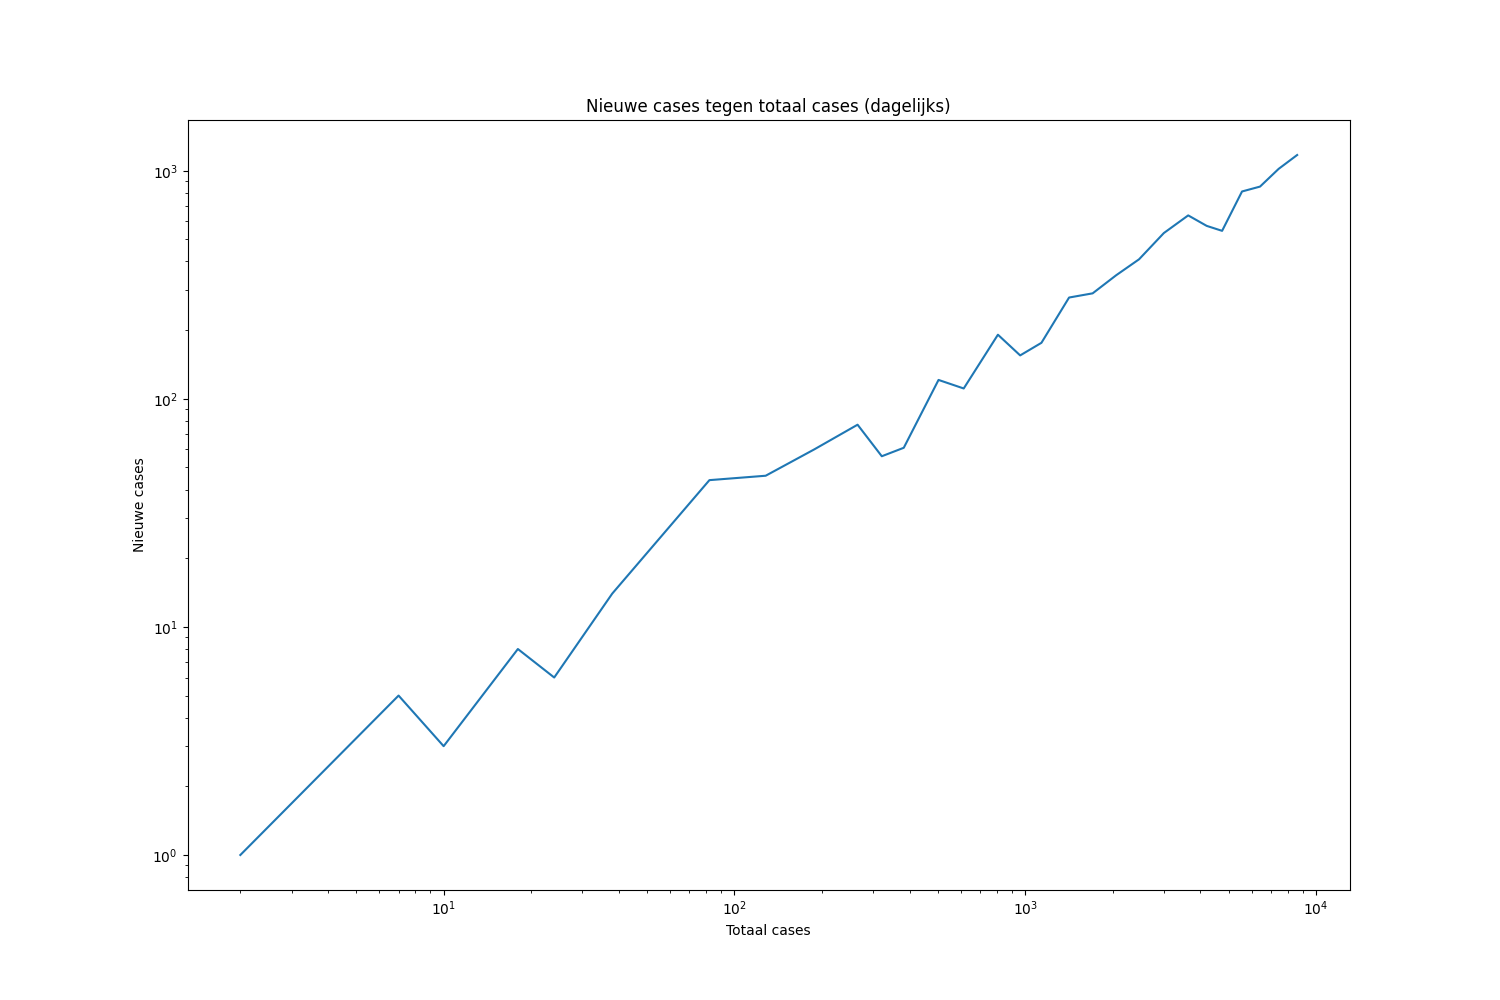
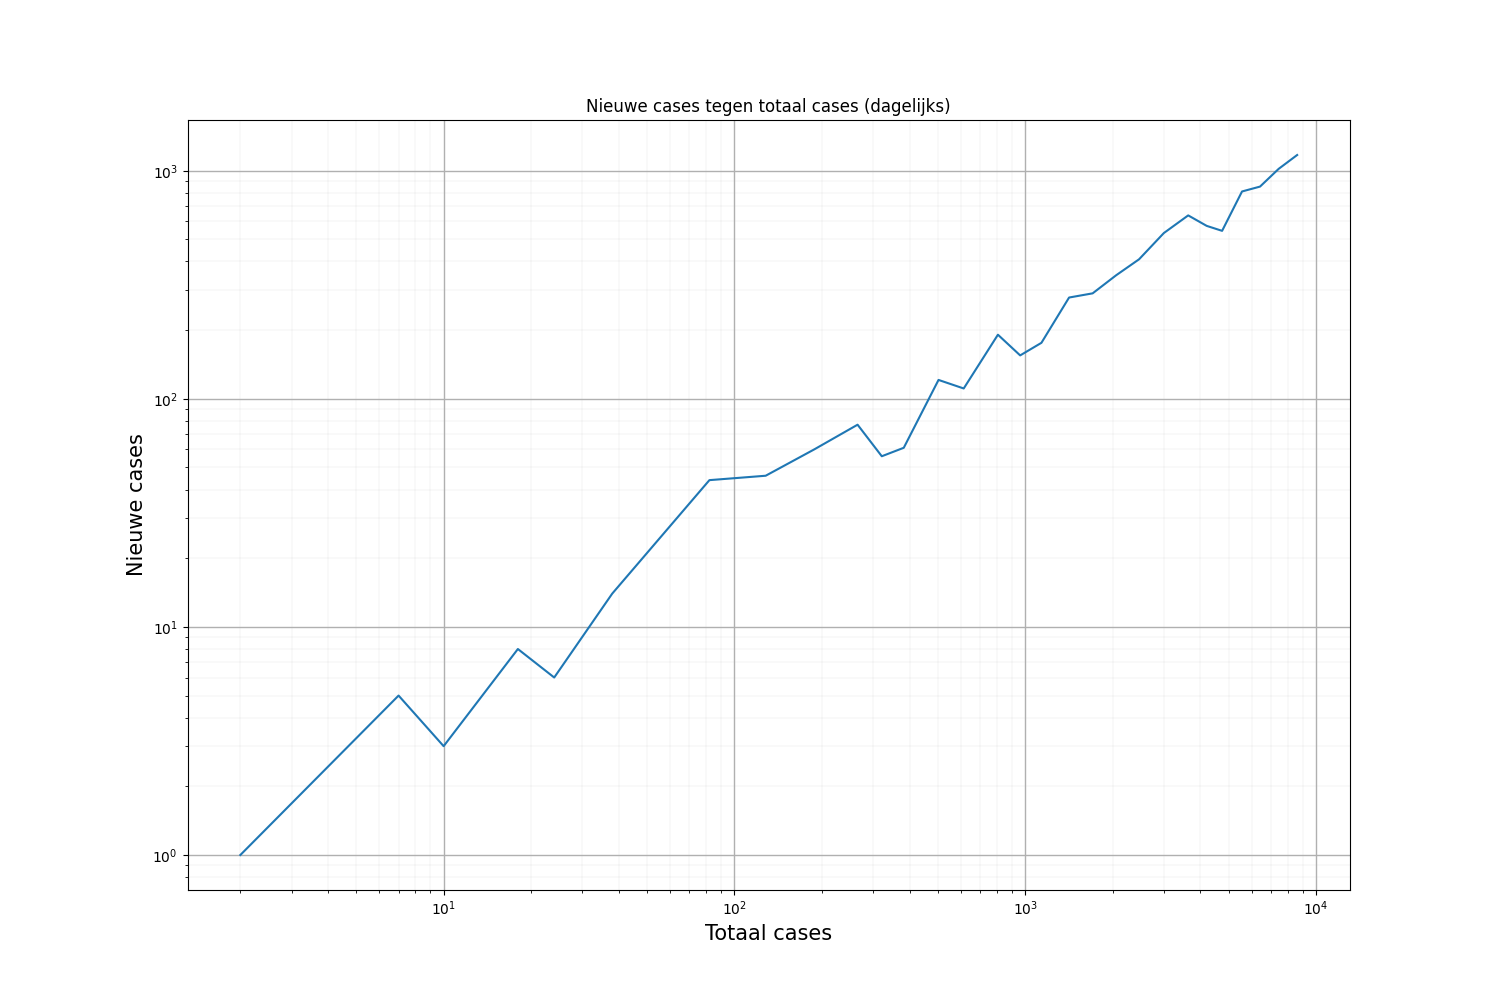
Add grid and increase labelsize

Changed region(s): [[0.4907, 0.93, 0.552, 0.961]]

diff --git a/plot_scripts/python_plots.py b/plot_scripts/python_plots.py
@@ -131,8 +131,14 @@ def create_growthfactor_plot(df, intercepts, coefficients, inflection_date, plot
 
 # %%
 def create_logarithmic_growth_plot(df):
+    # Setup Object Oriented plot because we re-use this function
     fig, ax = plt.subplots(figsize=(15,10))
-    ax.set(xlabel="Totaal cases", ylabel="Nieuwe cases", xscale="log", yscale="log")
+    ax.set(xscale="log", yscale="log", )
+    ax.set_xlabel("Totaal cases", fontsize=15)
+    ax.set_ylabel("Nieuwe cases", fontsize=15)
+
+    ax.grid(which='major', linewidth=1)
+    ax.grid(which='minor', linewidth=0.1)
 
     ax.plot(df['Aantal'], df["New_cases"])
     
